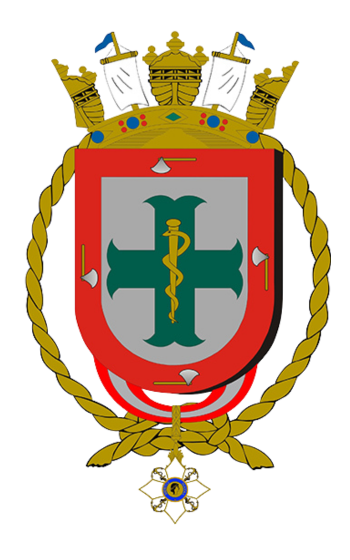
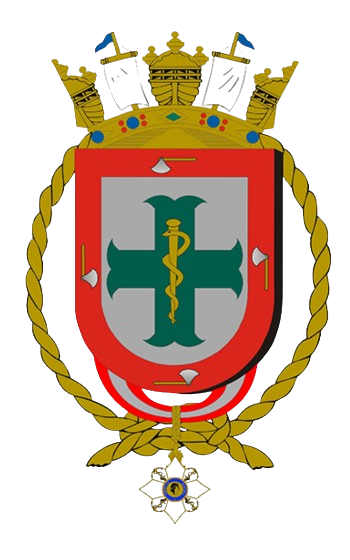
fix(ui): contraste de botões outline e hover das abas no modo escuro

diff --git a/src/components/ui/button.tsx b/src/components/ui/button.tsx
@@ -7,9 +7,12 @@ const buttonVariants = cva(
   {
     variants: {
       variant: {
-        default: "bg-[hsl(var(--primary))] text-white hover:brightness-105",
-        outline: "border border-[hsl(var(--border))] bg-white hover:bg-[hsl(var(--muted))]",
-        ghost: "hover:bg-[hsl(var(--muted))]",
+        default:
+          "bg-[hsl(var(--primary))] text-[hsl(var(--primary-foreground))] hover:brightness-105",
+        outline:
+          "border border-[hsl(var(--border))] bg-[hsl(var(--card))] text-[hsl(var(--foreground))] hover:bg-[hsl(var(--muted))] hover:text-[hsl(var(--foreground))]",
+        ghost:
+          "text-[hsl(var(--foreground))] hover:bg-[hsl(var(--muted))] hover:text-[hsl(var(--foreground))]",
       },
       size: {
         default: "h-10 px-4",

diff --git a/src/components/header.tsx b/src/components/header.tsx
@@ -74,7 +74,11 @@ export function Header({
             onClick={openRdvInApp}
             className={cn(rdvRouteActive && "shadow-sm")}
           >
-            <BrokenCarIcon />
+            <BrokenCarIcon
+              className={cn(
+                rdvRouteActive ? "text-[hsl(var(--primary-foreground))]" : "text-[hsl(var(--primary))]",
+              )}
+            />
           </Button>
         </div>
       </div>

diff --git a/src/components/ui/tabs.tsx b/src/components/ui/tabs.tsx
@@ -50,12 +50,12 @@ export function TabsList({ items, active, onChange, variant = "default" }: TabsL
                   isMain ? "font-bold" : "font-medium",
                   isActive(item)
                     ? cn(
-                        "bg-[hsl(var(--primary))] text-white shadow-sm",
+                        "bg-[hsl(var(--primary))] text-[hsl(var(--primary-foreground))] shadow-sm",
                         isMain &&
                           "[text-shadow:0_1px_2px_rgba(0,0,0,0.45),0_3px_10px_rgba(0,0,0,0.35)]",
                       )
                     : cn(
-                        "text-slate-500 hover:bg-[hsl(var(--muted))] hover:text-slate-900",
+                        "text-[hsl(var(--muted-foreground))] hover:bg-[hsl(var(--muted))] hover:text-[hsl(var(--foreground))]",
                         isMain &&
                           "[text-shadow:0_1px_2px_rgba(0,0,0,0.28),0_2px_8px_rgba(0,0,0,0.18)]",
                       ),